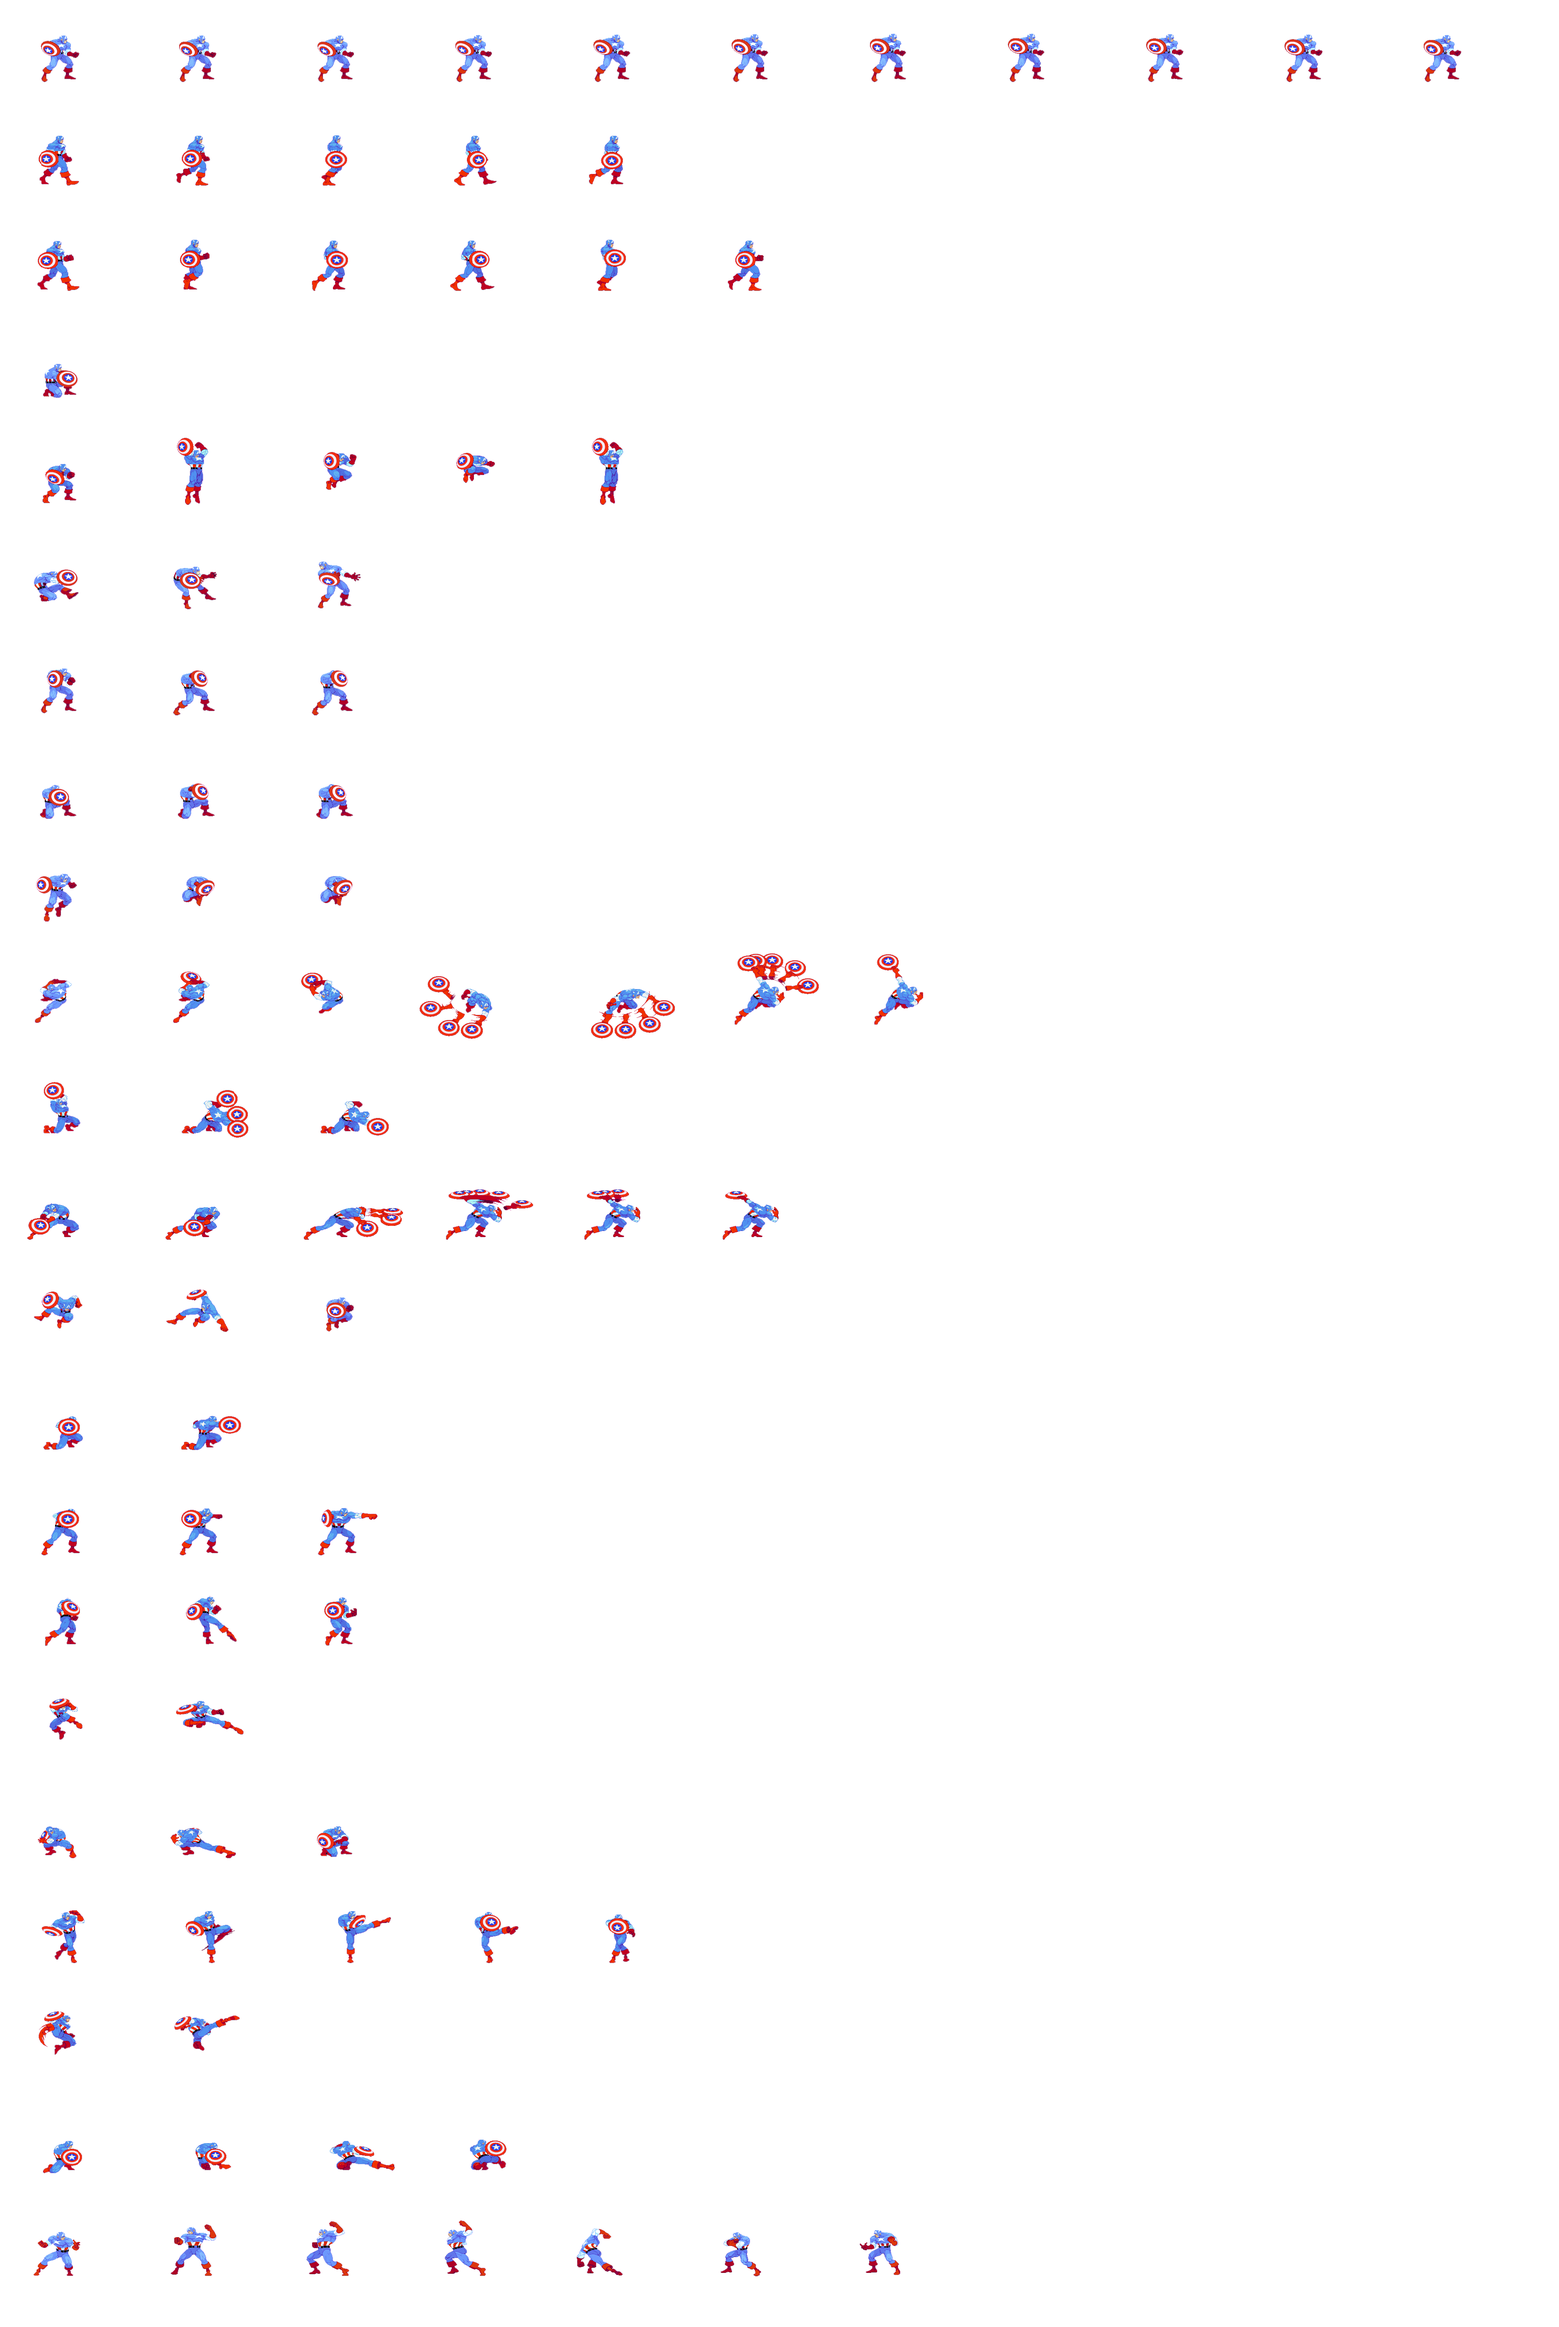
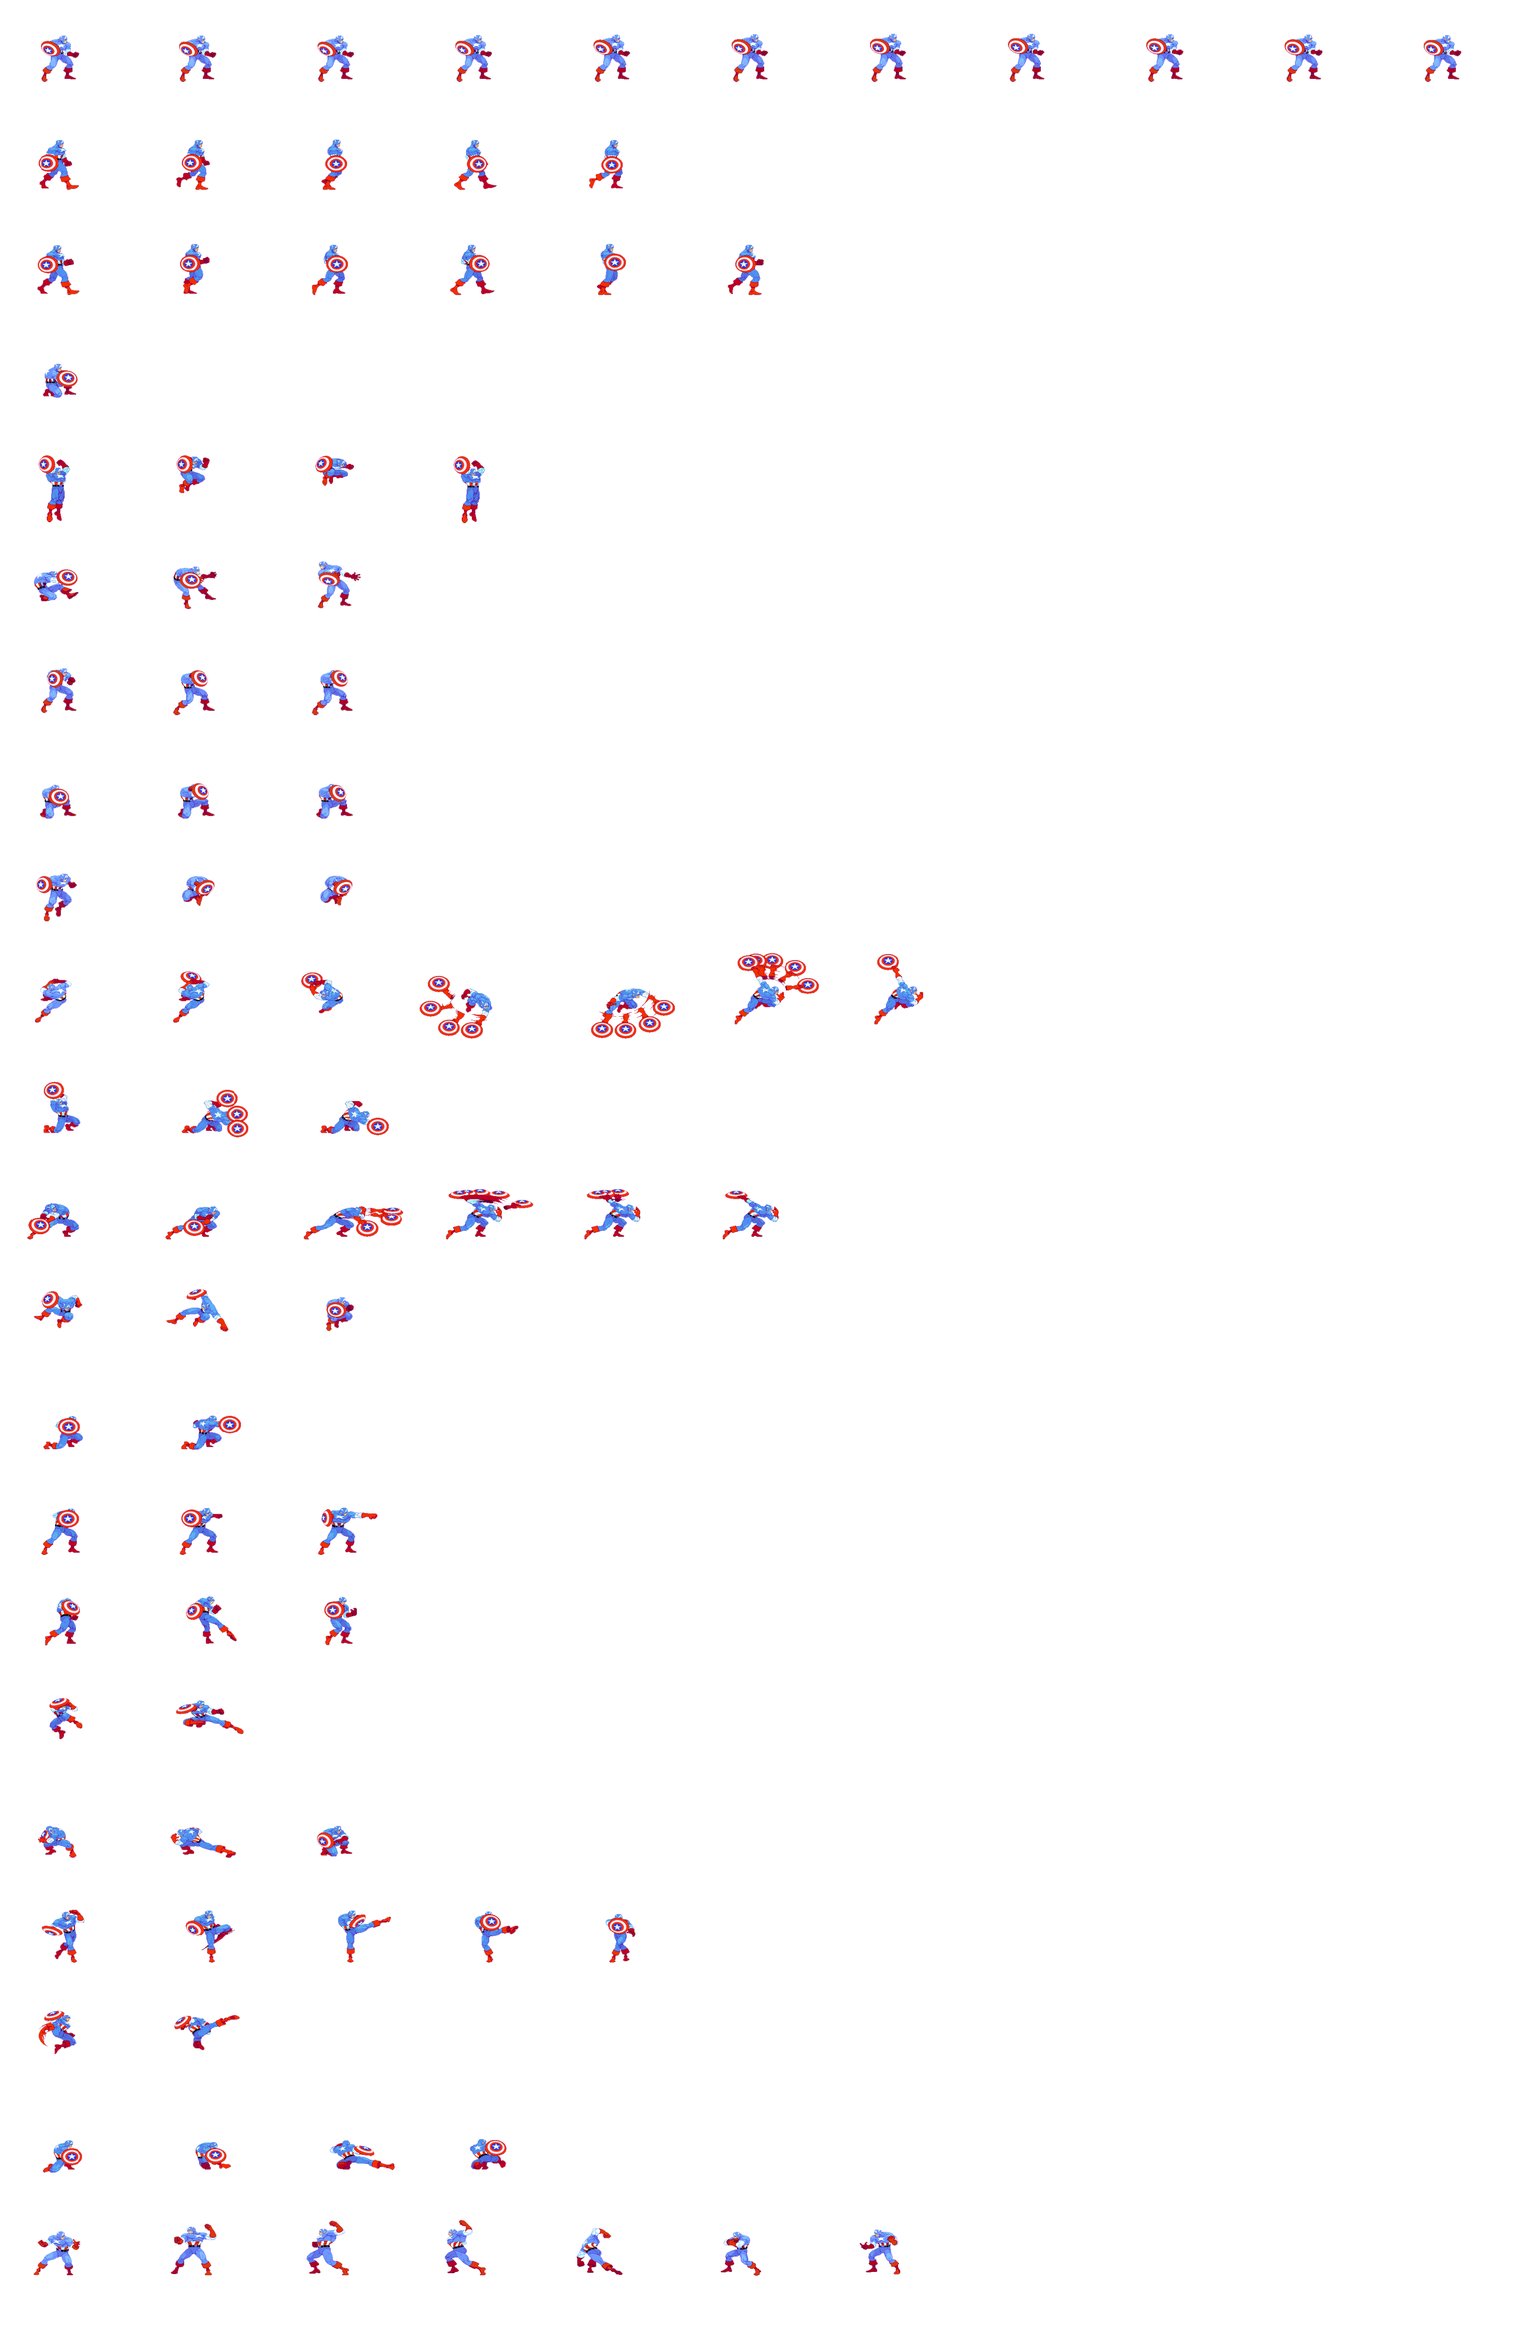
arreglando animaciones

diff --git a/model/GameObjects_fight/Character/Character.cpp b/model/GameObjects_fight/Character/Character.cpp
@@ -16,6 +16,29 @@ Character::Character(const char* imagePath, int z_index, SDL_Renderer* rend, Spr
     state = "still";
 
     this->name = name;
+
+    if (name == "CaptainAmerica"){
+        auxY = 205;
+        auxLeft = 237;
+        auxRight = 411;
+    }
+    if (name == "SpiderMan"){
+        auxY = 307;
+        auxLeft = 424;
+        auxRight = 527;
+    }
+    if (name == "ChunLi"){
+        auxY = 240;
+        auxLeft = 423;
+        auxRight = 376;
+    }
+    if (name == "Venom"){
+        auxY = 180;
+        auxLeft = 575;
+        auxRight = 527;
+    }
+
+
 }
 
 Character::~Character() = default;
@@ -29,6 +52,11 @@ void Character::render() {
     SDL_RenderCopyEx(renderer, objTexture, &sprite, &objRect, 0.0, nullptr, flip);
 
     SDL_Rect hitbox = getHitbox();
+
+    hitbox.y += auxY;
+    if (flip == SDL_FLIP_NONE){
+        hitbox.x += auxLeft;
+    }else hitbox.x += auxRight;
 
     SDL_SetRenderDrawColor(renderer, 0,255,0,255);
     SDL_RenderDrawRect(renderer, &hitbox);
@@ -56,6 +84,24 @@ void Character::changePosition(int changeX, int changeY) {
 }
 
 void Character::setInitialXPositions(int positionLeft, int positionRight){
+
+//    if (name == "CaptainAmerica"){
+//        positionLeft -= 237;
+//        positionRight -= 411;
+//    }
+//    if (name == "SpiderMan"){
+//        positionLeft -= 424;
+//        positionRight -= 527;
+//    }
+//    if (name == "ChunLi"){
+//        positionLeft -= 423;
+//        positionRight -= 376;
+//    }
+//    if (name == "Venom"){
+//        positionLeft -= 575;
+//        positionRight -= 527;
+//    }
+
     posInitialLeft = positionLeft;
     posInitialRight = positionRight;
 }

diff --git a/Server/Character_server/Character_server.cpp b/Server/Character_server/Character_server.cpp
@@ -72,9 +72,40 @@ void Character_server::flipSprite(SDL_RendererFlip flip_) {
     horizontalFlip = flip == SDL_FLIP_HORIZONTAL;
 }
 
-vector<int> Character_server::getPosInfo() {
+vector<int> Character_server::getPosInfo(char side) {
 
-    vector<int> positions = {objRect.x, objRect.y};
+    //side te dice con '0' que esta ala izquierda y '1' que esta a la derecha y depende eso cambia le off set
+
+    int x = objRect.x;
+    int y = objRect.y;
+
+    if (name == "CaptainAmerica"){
+        y -= 205;
+        if (side == '0'){
+            x -= 237;
+        }else x -= 411;
+    }
+    if (name == "SpiderMan"){
+        y -= 307;
+        if (side == '0'){
+            x -= 424;
+        }else x -= 527;
+    }
+    if (name == "ChunLi"){
+        y -= 240;
+        if (side == '0'){
+            x -= 423;
+        }else x -= 376;
+    }
+    if (name == "Venom"){
+        y -= 180;
+        if (side == '0'){
+            x -= 575;
+        }else x -= 527;
+    }
+
+
+    vector<int> positions = {x, y};
 
     return positions;
 }

diff --git a/Animations/CaptainAmericaAnimations/CaptainAmericaJumpAnimation.cpp b/Animations/CaptainAmericaAnimations/CaptainAmericaJumpAnimation.cpp
@@ -8,15 +8,14 @@
 void CaptainAmericaJumpAnimation::init() {
 
     startTime = SDL_GetTicks();
-    animationRate = 5;
-    animationLength = 5;
+    animationRate = 1;
+    animationLength = 4;
 
-    vector<int> frame0 = {322, 980, 322, 245};
-    vector<int> frame1 = {644, 980, 322, 245};
-    vector<int> frame2 = {966, 980, 322, 245};
-    vector<int> frame3 = {1288, 980, 322, 245};
-    vector<int> frame4 = {1610, 980, 322, 245};
-    //vector<int> frame5 = {499, 428, 89, 157};
+    vector<int> frame0 = {0, 980, 322, 245};
+    vector<int> frame1 = {322, 980, 322, 245};
+    vector<int> frame2 = {644, 980, 322, 245};
+    vector<int> frame3 = {966, 980, 322, 245};
+
 
 
 
@@ -24,8 +23,6 @@ void CaptainAmericaJumpAnimation::init() {
     animation.push_back(frame1);
     animation.push_back(frame2);
     animation.push_back(frame3);
-    animation.push_back(frame4);
-    //animation.push_back(frame5);
 
 }
 

diff --git a/model/Game/Game.cpp b/model/Game/Game.cpp
@@ -58,11 +58,17 @@ void Game::init(const char *title, int posX, int posY) {
         // Mando viewFight pq es la unica que tenemos. Deberiamos mandar la primera, y luego, las ViewController conocerse entre
         // si para saber quien va luego o implementar el VIEW MANAGER
 
+        SDL_RenderCopy(renderer, loading, &source, &dest);
+        SDL_RenderPresent(renderer);
+
         views["fight"] = factory -> getView_fight();
         characters = factory -> getCharacter();
         views["char_select"] = factory -> getView_charSelect();
 
         view = (views.find("char_select"))->second;
+
+        SDL_RenderCopy(renderer, loading, &source, &dest);
+        SDL_RenderPresent(renderer);
 
         logger -> Log("Inicialización completa, ventana, renderer y vista creados correctamente", INFO, "");
 

diff --git a/Animations/SpiderManAnimations/SpiderManWalkAnimation.cpp b/Animations/SpiderManAnimations/SpiderManWalkAnimation.cpp
@@ -19,10 +19,10 @@ void SpiderManWalkAnimation::init() {
     vector<int> frame5 = {2455, 268, 491, 268};
     vector<int> frame6 = {2946, 268, 491, 268};
     vector<int> frame7 = {3437, 268, 491, 268};
-    vector<int> frame8 = {3828, 268, 491, 268};
-    vector<int> frame9 = {4319, 268, 491, 268};
-    vector<int> frame10 = {4810, 268, 491, 268};
-    vector<int> frame11 = {5301, 268, 491, 268};
+    vector<int> frame8 = {3928, 268, 491, 268};
+    vector<int> frame9 = {4419, 268, 491, 268};
+    vector<int> frame10 = {4910, 268, 491, 268};
+    vector<int> frame11 = {5401, 268, 491, 268};
 
 
 

diff --git a/controllers/ViewController/ViewController_fight/ViewController_fight.cpp b/controllers/ViewController/ViewController_fight/ViewController_fight.cpp
@@ -109,8 +109,8 @@ string ViewController_fight::giveNewParameters() {
     vector<int> pos_moon = backgrounds[1]->getPosCamera();
     vector<int> pos_galaxy = backgrounds[2]->getPosCamera();
 
-    vector<int> posCharT1 = team1->getPosCurrentCharacter();
-    vector<int> posCharT2 = team2->getPosCurrentCharacter();
+    vector<int> posCharT1 = team1->getPosCurrentCharacter(updates[41]);
+    vector<int> posCharT2 = team2->getPosCurrentCharacter(updates[42]);
 
     updates[31] = team1->getStateCurrentCharacter();
     updates[40] = team2->getStateCurrentCharacter();

diff --git a/Server/Server.cpp b/Server/Server.cpp
@@ -561,7 +561,7 @@ void Server::connect() {
     game_server->init();
 
     //Se arranca a enviar el conectado y el team a los clientes
-    sleep(8); //ESTE SLEEP ES PARA DARLE TIEMPO A LOS CLIENTES A QUE CARGUEN TODAS LAS IMAGENES DEL JSON. SI NO COMO TARDAN VA A DECIR QUE SE DESCONECTARON
+    sleep(10); //ESTE SLEEP ES PARA DARLE TIEMPO A LOS CLIENTES A QUE CARGUEN TODAS LAS IMAGENES DEL JSON. SI NO COMO TARDAN VA A DECIR QUE SE DESCONECTARON
 
     pthread_mutex_init(&lock,NULL);
 

diff --git a/Animations/SpiderManAnimations/SpiderManStillAnimation.cpp b/Animations/SpiderManAnimations/SpiderManStillAnimation.cpp
@@ -19,7 +19,7 @@ void SpiderManStillAnimation::init() {
     vector<int> frame5 = {2455, 0, 491, 268};
     vector<int> frame6 = {2946, 0, 491, 268};
     vector<int> frame7 = {3437, 0, 491, 268};
-    vector<int> frame8 = {3828, 0, 491, 268};
+    vector<int> frame8 = {3928, 0, 491, 268};
 
 
     animation.push_back(frame0);

diff --git a/utils/TeamManager/TeamManager.cpp b/utils/TeamManager/TeamManager.cpp
@@ -70,8 +70,8 @@ void TeamManager::setInitialPos(bool left) {
 
 }
 
-vector<int> TeamManager::getPosCurrentCharacter() {
-    return currentCharacter->getPosInfo();
+vector<int> TeamManager::getPosCurrentCharacter(char side) {
+    return currentCharacter->getPosInfo(side);
 }
 
 char TeamManager::getStateCurrentCharacter() {

diff --git a/controllers/Controller/ControllerCharacter/ControllerCharacter.cpp b/controllers/Controller/ControllerCharacter/ControllerCharacter.cpp
@@ -321,8 +321,8 @@ void ControllerCharacter::setInitialPos(bool left) {
 
 }
 
-vector<int> ControllerCharacter::getPosInfo() {
-    return gameObject->getPosInfo();
+vector<int> ControllerCharacter::getPosInfo(char side) {
+    return gameObject->getPosInfo(side);
 }
 
 string ControllerCharacter::getState() {

diff --git a/Server/Character_server/Character_server.h b/Server/Character_server/Character_server.h
@@ -28,7 +28,7 @@ public:
     void setInitialPos(bool left);
     string name;
     void flipSprite(SDL_RendererFlip flip);
-    vector<int> getPosInfo() override;
+    vector<int> getPosInfo(char side) override;
     string getState();
     SDL_RendererFlip getFlip();
     vector<SDL_Rect> getHitboxInfo();

diff --git a/Server/Background_server/Background_server.h b/Server/Background_server/Background_server.h
@@ -22,7 +22,7 @@ public:
     void setSpeeds(int speedCam,double speedPercetageCam);
     int getSpeedCam();
     double getSpeedPercetageCam();
-    vector<int> getPosInfo() override ;
+    vector<int> getPosInfo(char side) override ;
 
 private:
     int speedCam;
